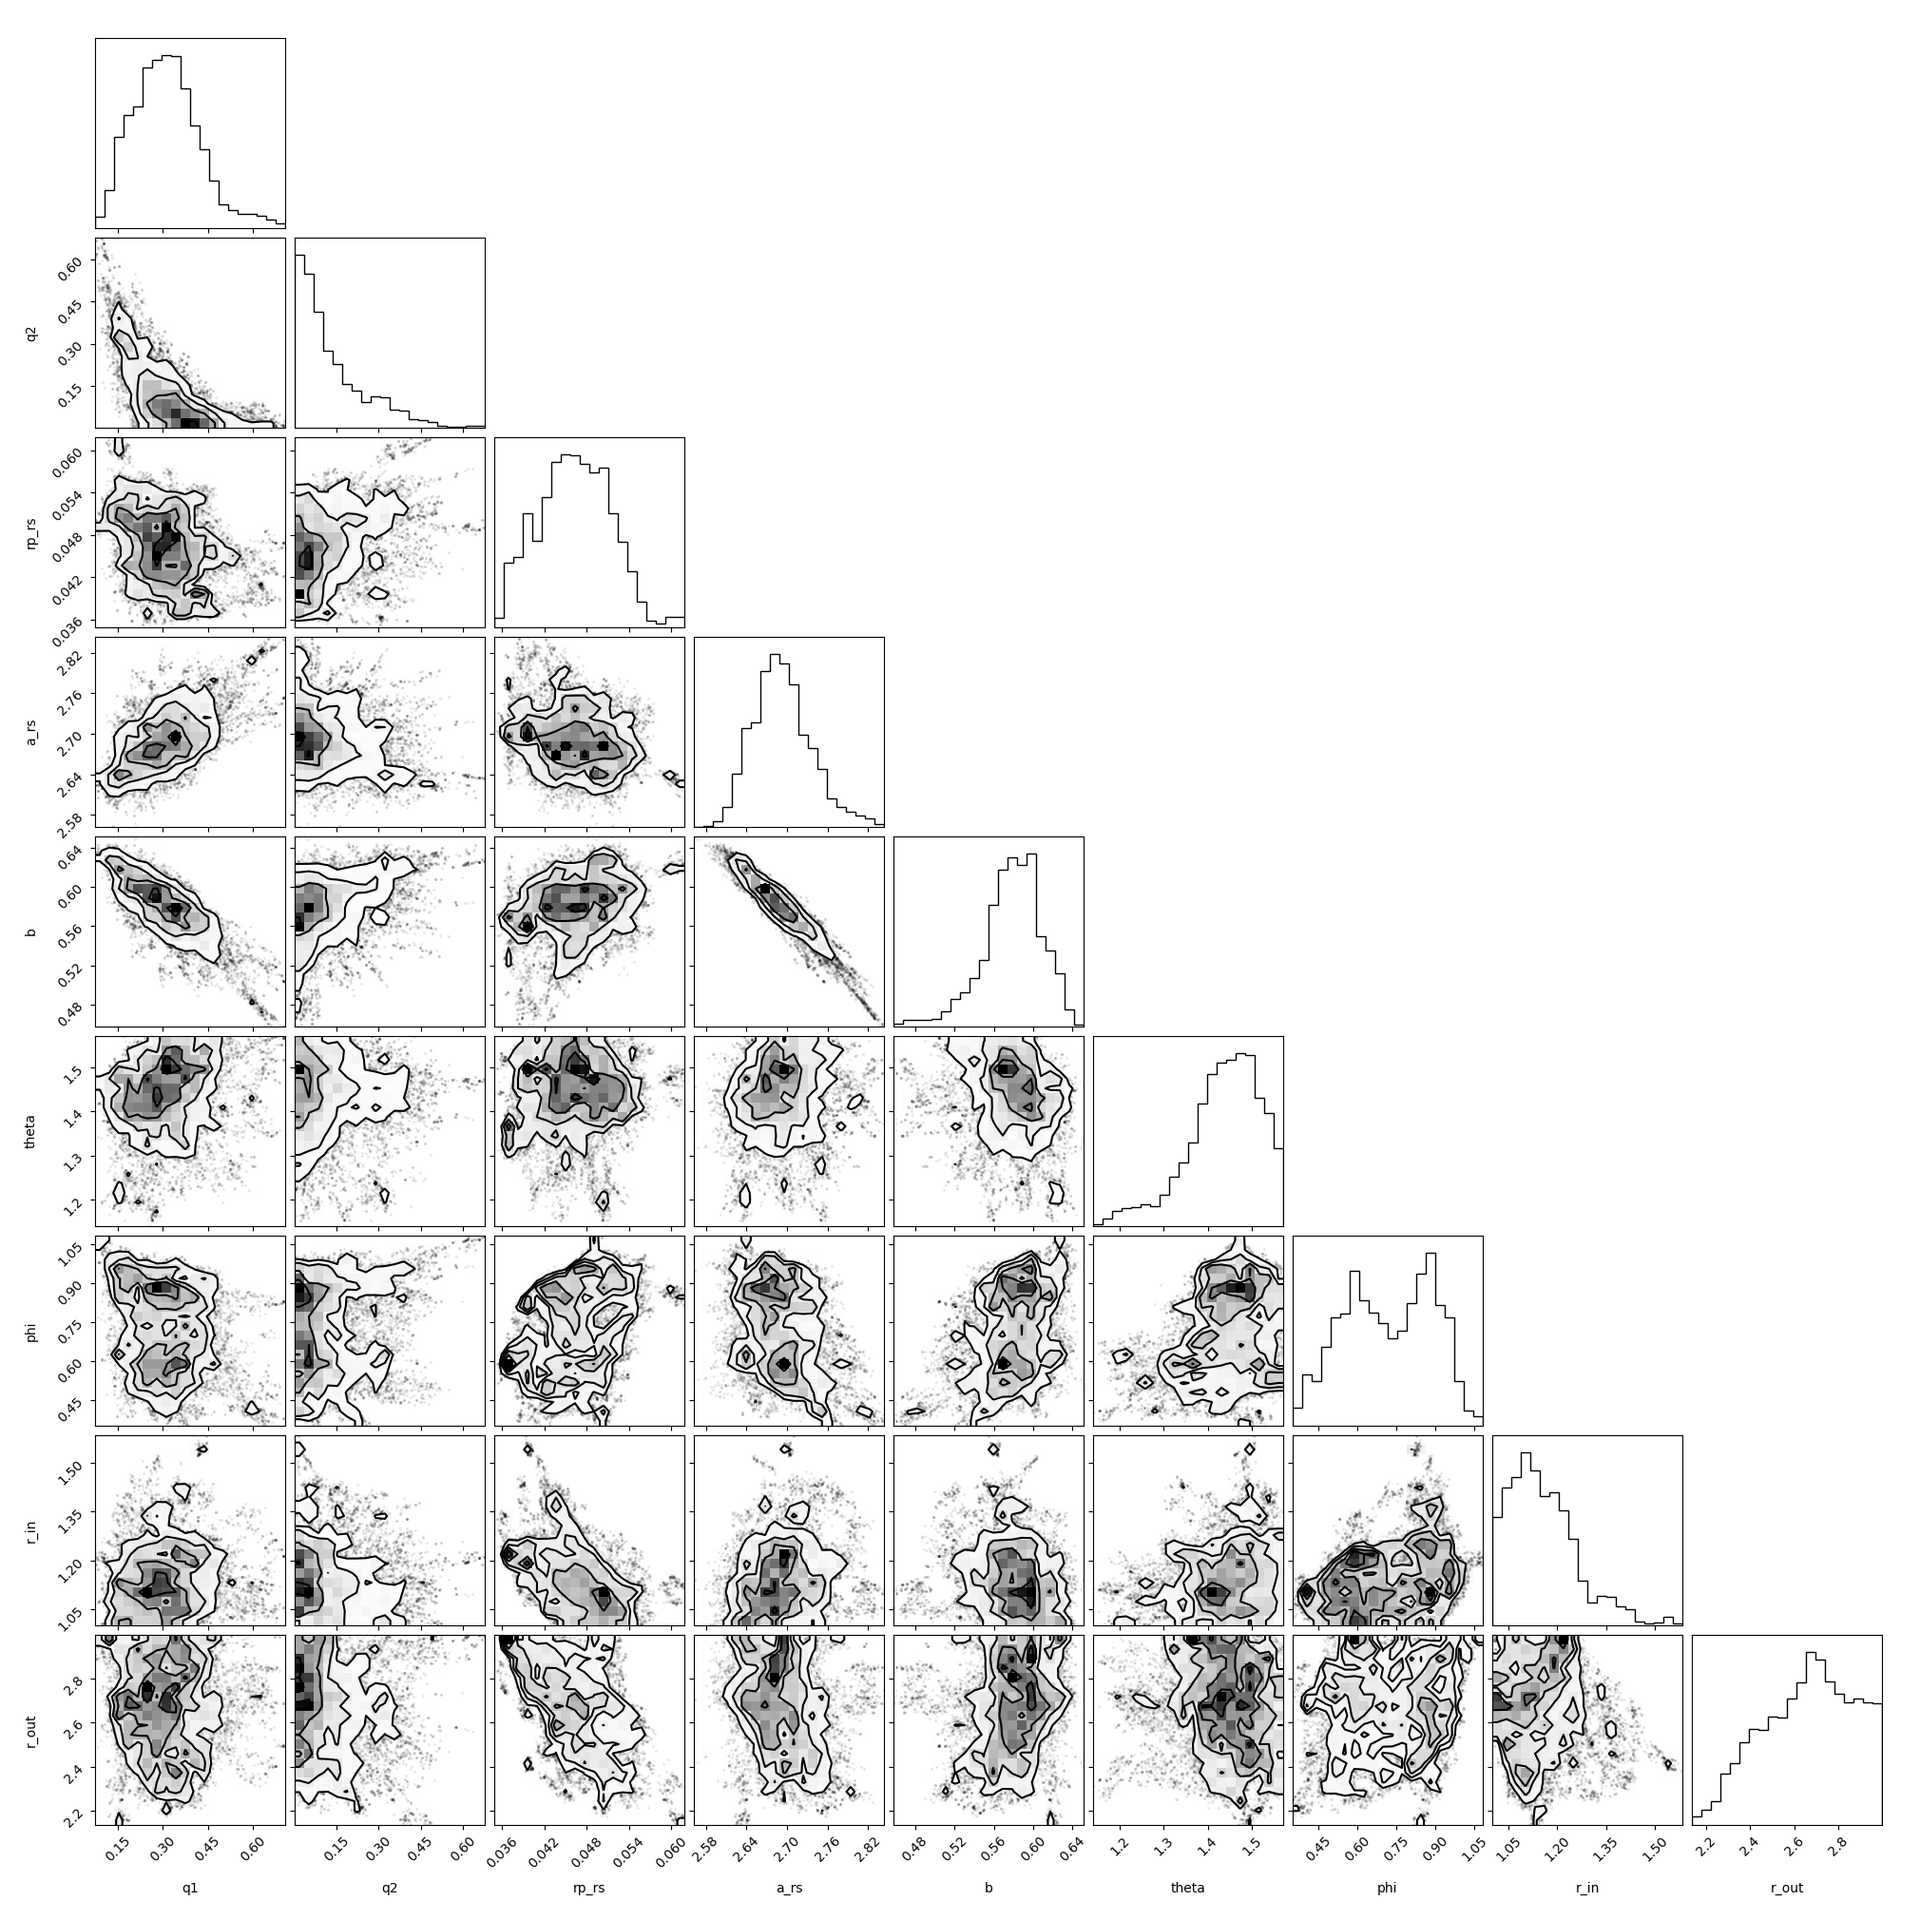
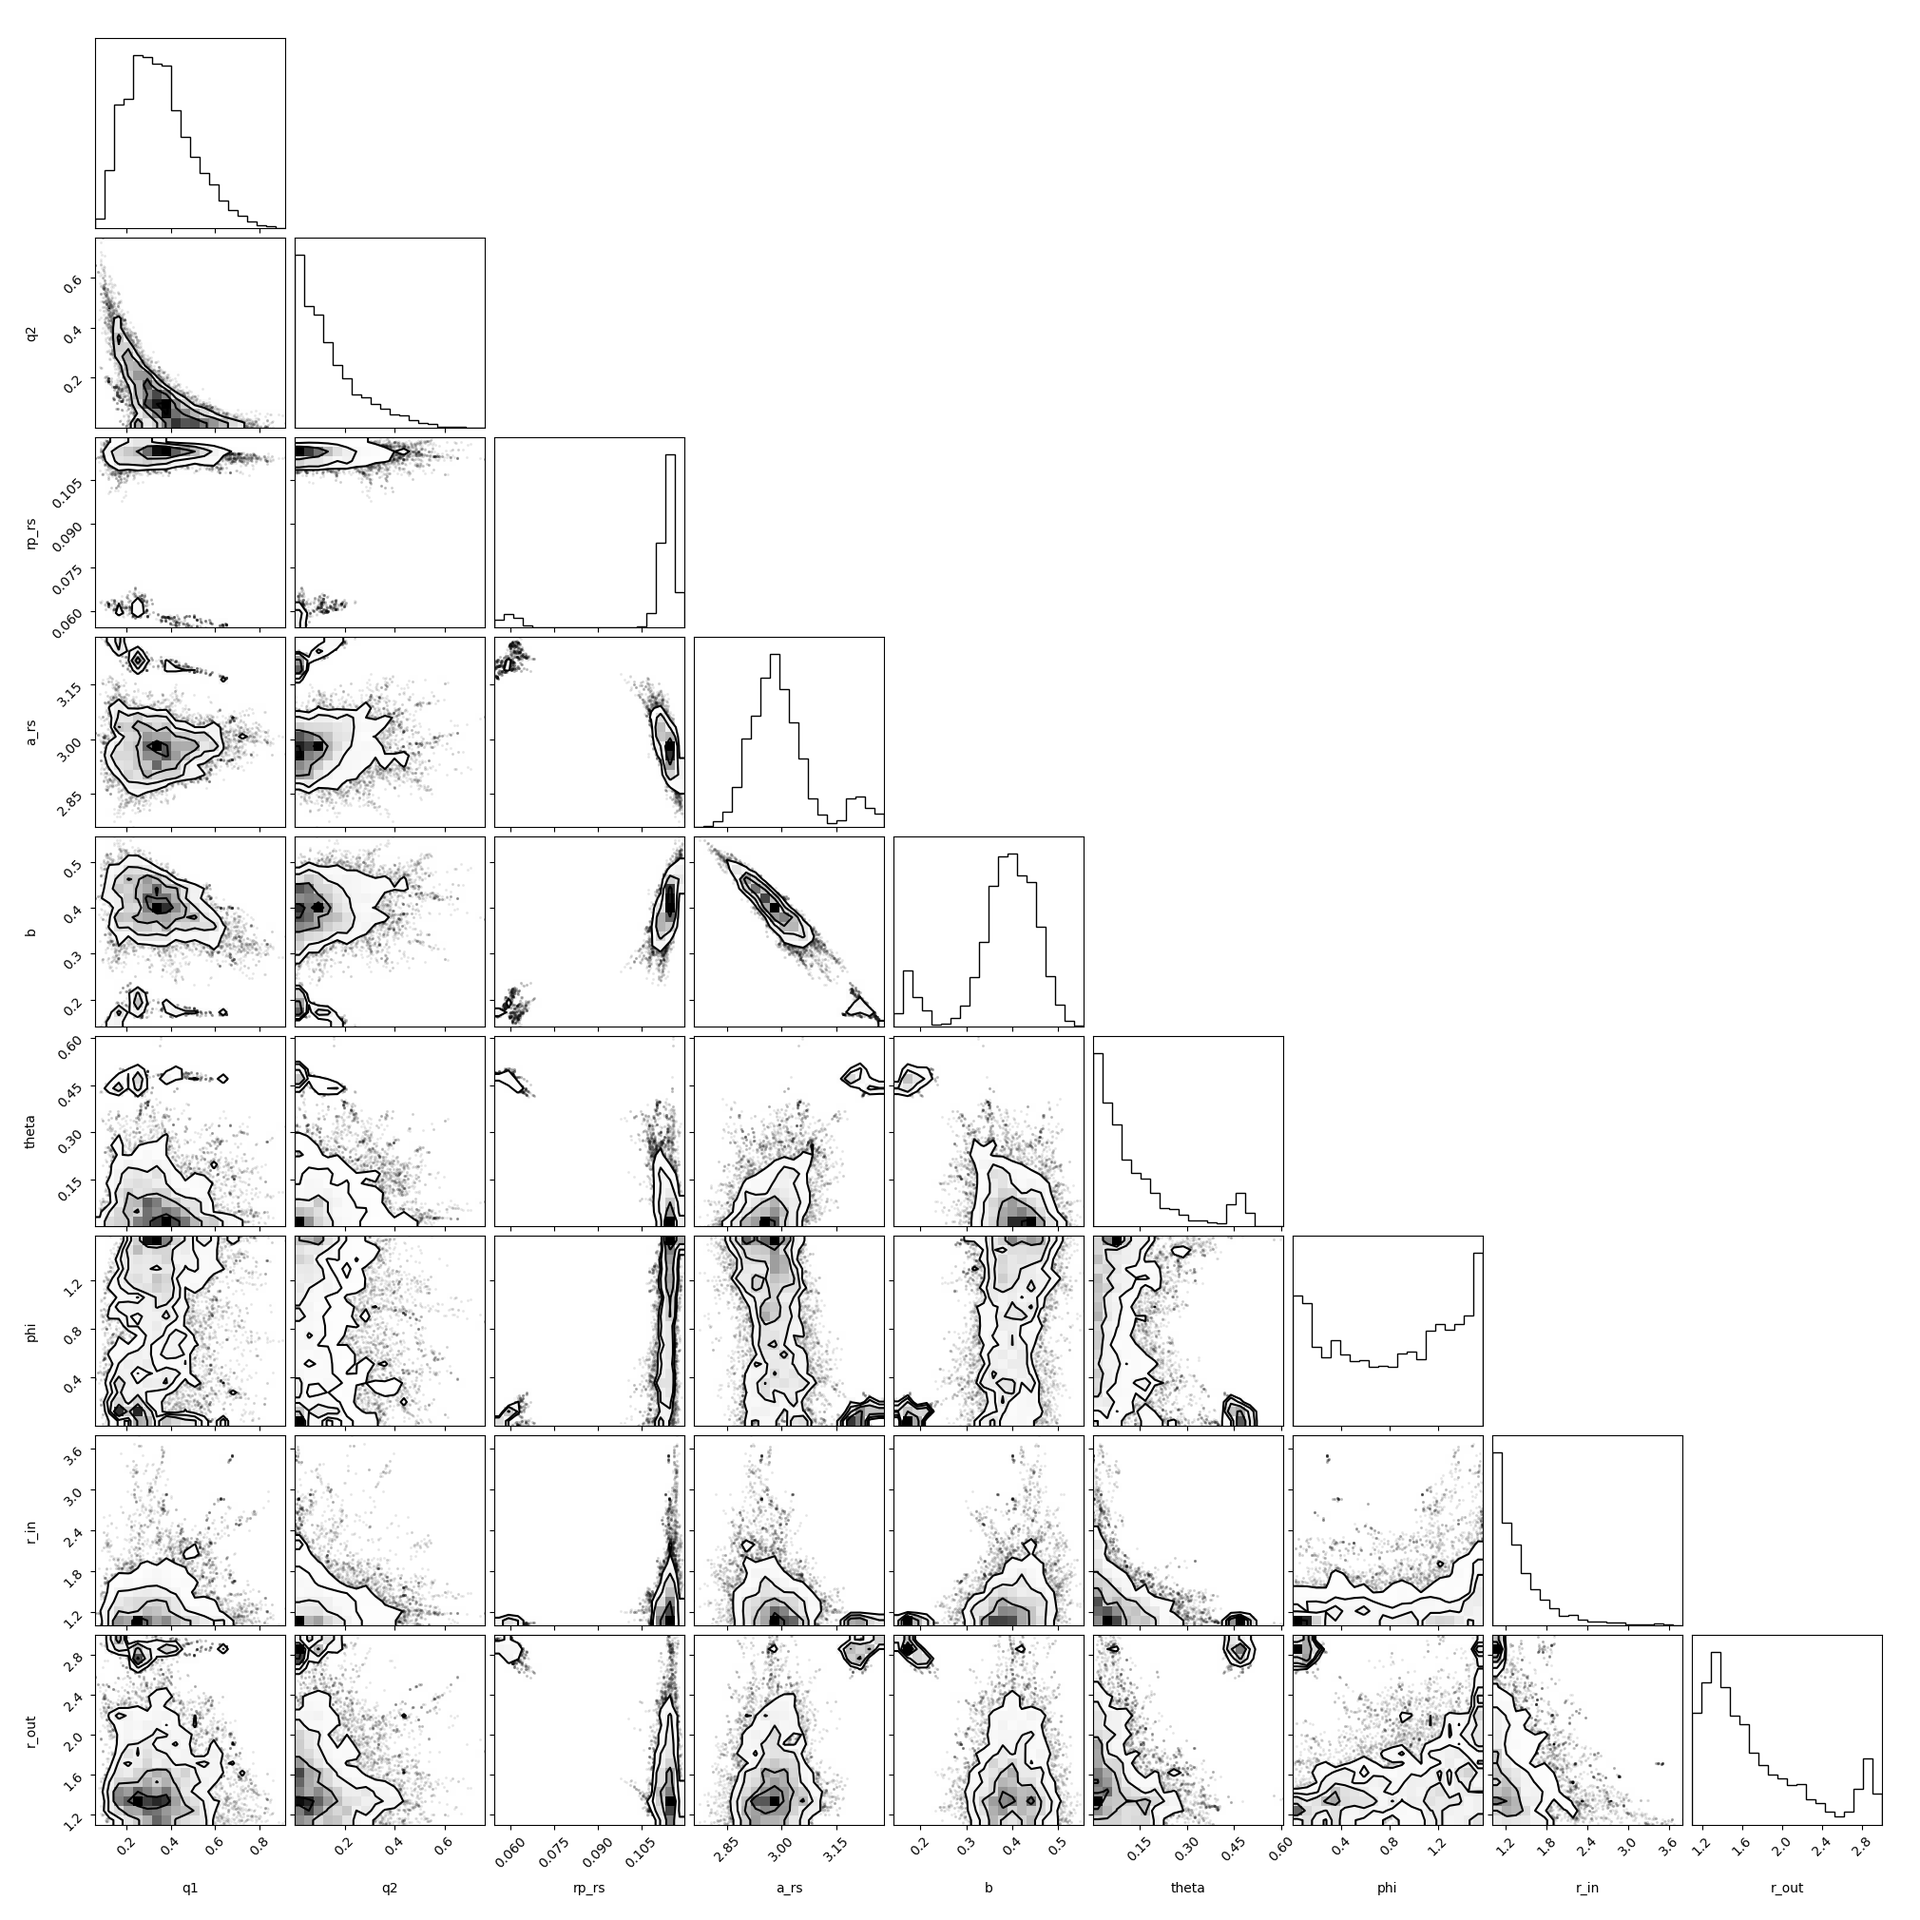
chisqがどちらもリングモデルになっていた。 2403.01

diff --git a/ring_transit/research_umetani/ring_planet.py b/ring_transit/research_umetani/ring_planet.py
@@ -260,11 +260,11 @@ plt.show()
 import pdb; pdb.set_trace()
 """
 
-csvfile = './folded_lc_data/TOI1725.01.csv'
+csvfile = './folded_lc_data/TOI2403.01.csv'
 #files = glob.glob("/Users/u_tsubasa/work/ring_planet_research/ring_transit/research_umetani/folded_lc_data/*.csv")
 #homedir = '/Users/u_tsubasa/work/ring_planet_research/ring_transit/research_umetani'
 df = pd.read_csv('./exofop_tess_tois.csv')
-param_df = df[df['TOI'] == 1725.01]
+param_df = df[df['TOI'] == 2403.01]
 
 #lm.minimizeのためのparamsのセッティング。これはリングありモデル
 ###parameters setting###
@@ -391,7 +391,7 @@ ax_lc.plot(t, flux_model2, label='Model w/o ring', color='red')
 residuals_ring = binned_lc - flux_model
 chisq_ring = np.sum((residuals_ring.flux.value/flux_err_data)**2)
 residuals_no_ring = binned_lc - flux_model2
-chisq_noring = np.sum((residuals_ring.flux.value/flux_err_data)**2)
+chisq_noring = np.sum((residuals_no_ring.flux.value/flux_err_data)**2)
 residuals_ring.plot(ax=ax_re, color='blue', alpha=0.3,  marker='.', zorder=1)
 residuals_no_ring.plot(ax=ax_re, color='red', alpha=0.3,  marker='.', zorder=1)
 ax_re.plot(t, np.zeros(len(t)), color='black', zorder=2)

diff --git a/ring_transit/research_umetani/formcmc.py b/ring_transit/research_umetani/formcmc.py
@@ -22,6 +22,7 @@ def ring_int(R_in, R_out, theta, phi, tau, x_p, z_p, R_p, I_0, R_s, u_1, u_2, n_
     d_width = 2*R_out/n_int
     subtra = 0
     beta = jnp.abs(jnp.sin(theta) * jnp.cos(phi))
+    j_max = int((R_s**2 / d_width) -0.5) )
     i_max = int((R_s**2 / d_width) -0.5) )
     for i in range(i_max+1):
         for j in n_int:
